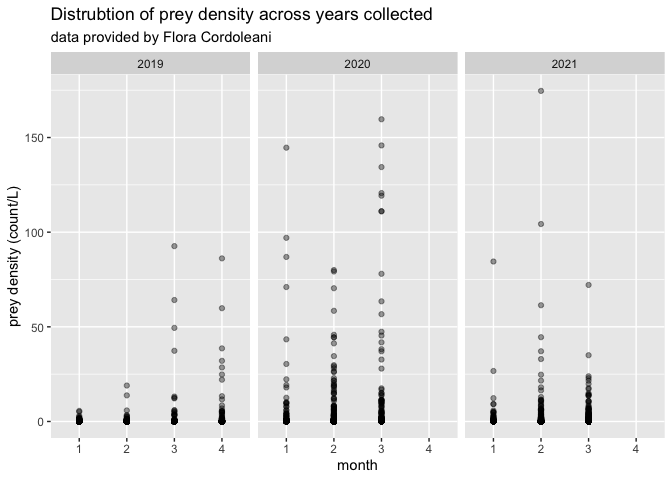
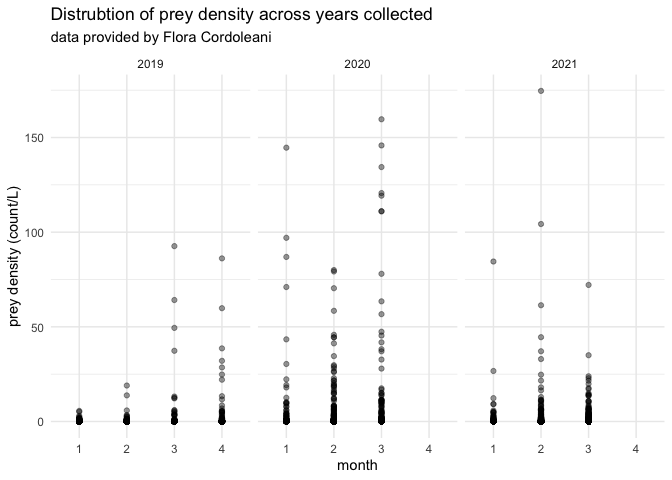
updates per Erin's review to Cordoleani markdown

diff --git a/data-raw/standard_format_markdowns/cordoleani_data.md b/data-raw/standard_format_markdowns/cordoleani_data.md
@@ -1,7 +1,7 @@
 Flora Cordoleani Data
 ================
 Maddee Rubenson (FlowWest)
-2022-12-20
+2022-12-21
 
 ## Cordoleani Data Standardization
 
@@ -40,7 +40,7 @@ Final prey density dataset includes the following variables:
 #### Raw data
 
 ``` r
-cordo_prey_raw <- read_csv('../cordoleani/tidy_zoop_density.csv') |> glimpse()
+cordo_prey_raw <- read_csv('data-raw//cordoleani/tidy_zoop_density.csv') |> glimpse()
 ```
 
     ## Rows: 2,636
@@ -86,10 +86,10 @@ cordoleani_zoop <- cordo_prey_raw %>%
   mutate(date = mdy(date),
          prey_density = prey_density/1000, # 1 m^3 = 1000 Liters 
          author = 'Cordoleani',
-         habitat_type = ifelse(habitat_type == "Agriculture", 'agricultural canal',
-                               ifelse(habitat_type == 'Channel', 'perennial instream',
-                                      ifelse(habitat_type == "River Channel", 'perennial instream',
-                                             ifelse(habitat_type == 'Wetland', 'floodplain', 'agricultural canal' )))),
+         habitat_type = case_when(habitat_type == "Agriculture" ~ "agricultural canal",
+                                  habitat_type == "Canal channel" ~ "perennial instream",
+                                  habitat_type == "River channel" ~ "perennial instream",
+                                  habitat_type == "Wetland" ~ "floodplain"),
          watershed = case_when(location == "Butte Sink" ~ "Butte Creek", 
                             location == "Sacramento River" ~ "Sacramento River", 
                             location == "Feather River" ~ "Feather River", 
@@ -110,7 +110,7 @@ cordoleani_zoop <- cordo_prey_raw %>%
 **notes:**
 
 ``` r
-cordoleani_locations_raw <- read_csv('../cordoleani/Cage_Locations.csv')
+cordoleani_locations_raw <- read_csv('data-raw/cordoleani/Cage_Locations.csv')
 
 cordoleani_locations <- cordoleani_locations_raw %>%
   rename(location = Region, 
@@ -118,10 +118,10 @@ cordoleani_locations <- cordoleani_locations_raw %>%
          habitat_type = Type, 
          lon = long) %>%
   select(-Name,  -Report_type) %>%
-  mutate(habitat_type = ifelse(habitat_type == "Agriculture", 'agricultural canal',
-                               ifelse(habitat_type == 'Channel', 'perennial instream',
-                                      ifelse(habitat_type == "River Channel", 'perennial instream',
-                                             ifelse(habitat_type == 'Wetland', 'floodplain', 'agricultural canal' ))))) %>%
+  mutate(habitat_type = case_when(habitat_type == "Agriculture" ~ "agricultural canal",
+                                  habitat_type == "Canal" ~ "agricultural canal",
+                                  habitat_type == "Channel" ~ "perennial instream",
+                                  habitat_type == "Wetland" ~ "floodplain")) %>%
   mutate(site = paste0(location, "-", sample_id)) %>%
   mutate(site_for_fish = paste0(location, "-", Site)) %>%
   select(-location, -sample_id, -habitat_type) %>%
@@ -150,11 +150,11 @@ kable(head(cordoleani_zoop_final, 5))
 
 | habitat_type       | date       | species         | prey_density | author     | watershed   | site            | size_class | gear_type | mesh_size |     lat |       lon |
 |:-------------------|:-----------|:----------------|-------------:|:-----------|:------------|:----------------|:-----------|:----------|----------:|--------:|----------:|
-| agricultural canal | 2019-01-07 | aquatic insect  |    0.1273240 | Cordoleani | Butte Creek | Butte Sink-BSC1 | meso       | net throw |       150 | 39.3607 | -121.8936 |
-| agricultural canal | 2019-01-07 | copepoda        |    0.6507669 | Cordoleani | Butte Creek | Butte Sink-BSC1 | meso       | net throw |       150 | 39.3607 | -121.8936 |
-| agricultural canal | 2019-01-07 | large cladocera |    0.7568702 | Cordoleani | Butte Creek | Butte Sink-BSC1 | meso       | net throw |       150 | 39.3607 | -121.8936 |
-| agricultural canal | 2019-01-07 | ostracoda       |    0.0070736 | Cordoleani | Butte Creek | Butte Sink-BSC1 | meso       | net throw |       150 | 39.3607 | -121.8936 |
-| agricultural canal | 2019-01-07 | rare            |    0.1839124 | Cordoleani | Butte Creek | Butte Sink-BSC1 | meso       | net throw |       150 | 39.3607 | -121.8936 |
+| perennial instream | 2019-01-07 | aquatic insect  |    0.1273240 | Cordoleani | Butte Creek | Butte Sink-BSC1 | meso       | net throw |       150 | 39.3607 | -121.8936 |
+| perennial instream | 2019-01-07 | copepoda        |    0.6507669 | Cordoleani | Butte Creek | Butte Sink-BSC1 | meso       | net throw |       150 | 39.3607 | -121.8936 |
+| perennial instream | 2019-01-07 | large cladocera |    0.7568702 | Cordoleani | Butte Creek | Butte Sink-BSC1 | meso       | net throw |       150 | 39.3607 | -121.8936 |
+| perennial instream | 2019-01-07 | ostracoda       |    0.0070736 | Cordoleani | Butte Creek | Butte Sink-BSC1 | meso       | net throw |       150 | 39.3607 | -121.8936 |
+| perennial instream | 2019-01-07 | rare            |    0.1839124 | Cordoleani | Butte Creek | Butte Sink-BSC1 | meso       | net throw |       150 | 39.3607 | -121.8936 |
 
 #### QC
 
@@ -198,7 +198,8 @@ ggplot(cordoleani_zoop_final, aes(x = as.factor(month(date)), y = prey_density))
   xlab('month') +
   ylab('prey density (count/L)') + 
   ggtitle('Distrubtion of prey density across years collected', 
-          subtitle = "data provided by Flora Cordoleani") 
+          subtitle = "data provided by Flora Cordoleani") +
+  theme_minimal()
 ```
 
 ![](cordoleani_data_files/figure-gfm/unnamed-chunk-6-1.png)<!-- -->
@@ -206,13 +207,14 @@ ggplot(cordoleani_zoop_final, aes(x = as.factor(month(date)), y = prey_density))
 ``` r
 ggplot(cordoleani_zoop_final, aes(x = as.factor(month(date)), y = prey_density)) + 
   geom_point(aes(color = as.factor(year(date))), alpha = 0.4) + 
-  facet_wrap(~habitat_type + year(date)) + 
+  facet_wrap(~habitat_type) + 
   xlab('month') +
   ylab('prey density (count/L)') + 
   ggtitle('Distrubtion of prey density across years and habitat types', 
           subtitle = "data provided by Flora Cordoleani") +  
   scale_color_manual('sample year', values=c('darkgreen', 'darkblue', "darkred")) + 
-  theme(legend.position = "top")
+  theme_minimal() + 
+  theme(legend.position = "top") 
 ```
 
 ![](cordoleani_data_files/figure-gfm/unnamed-chunk-6-2.png)<!-- -->
